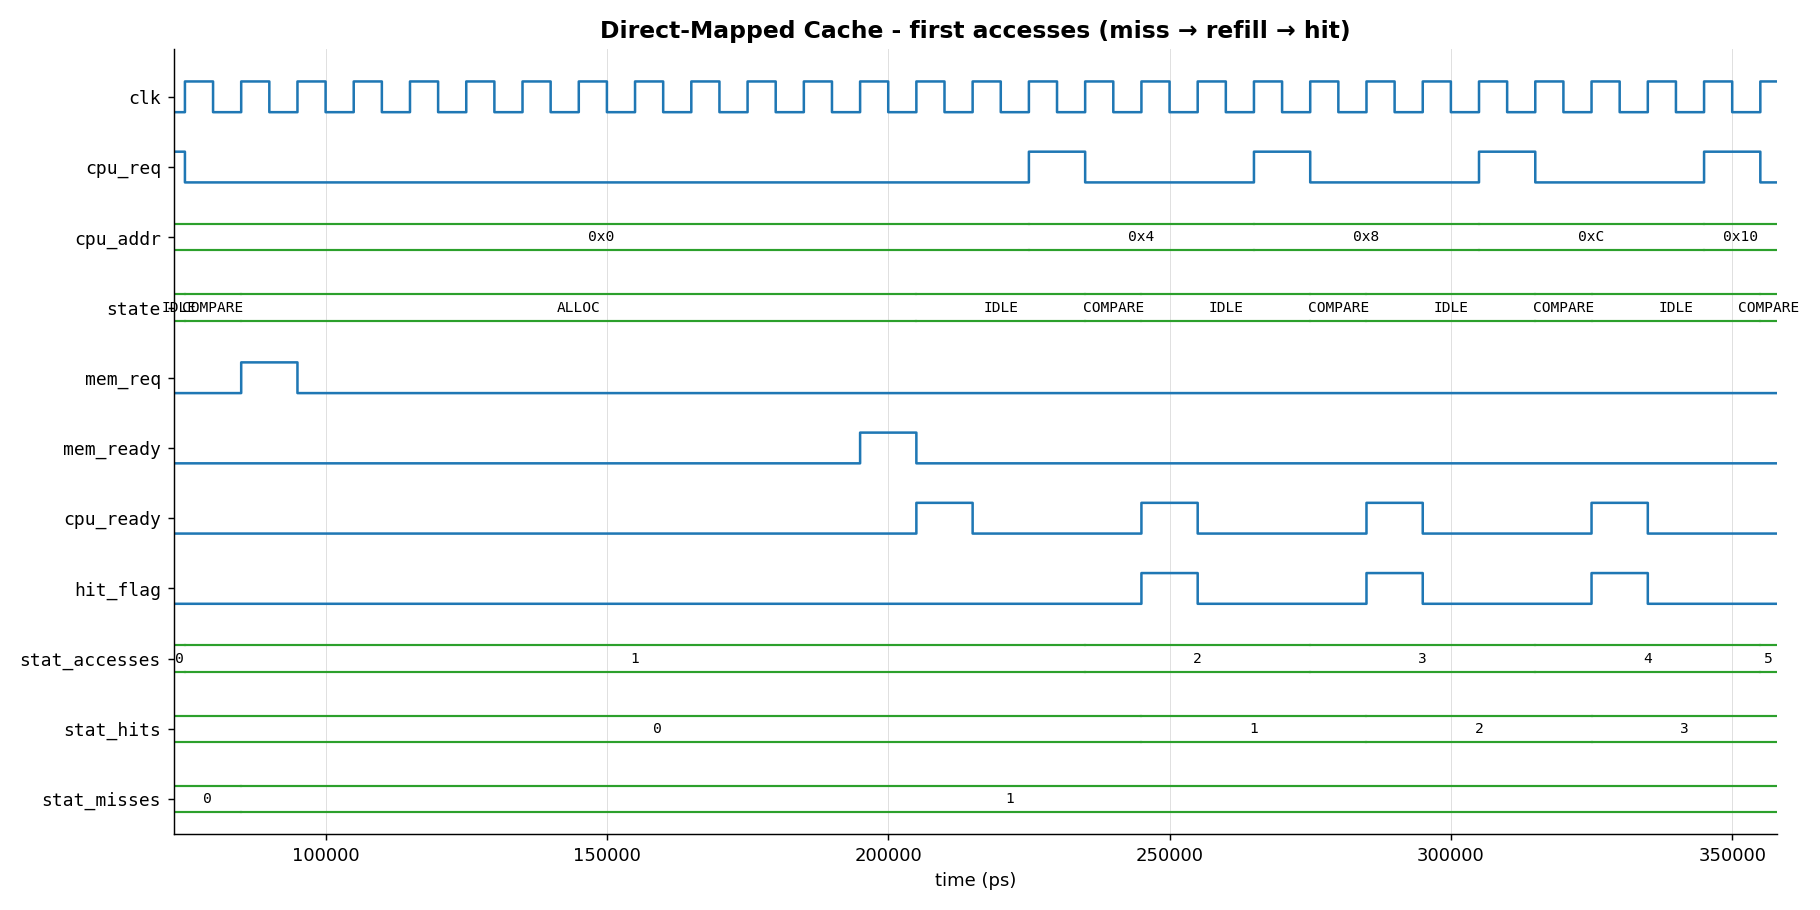
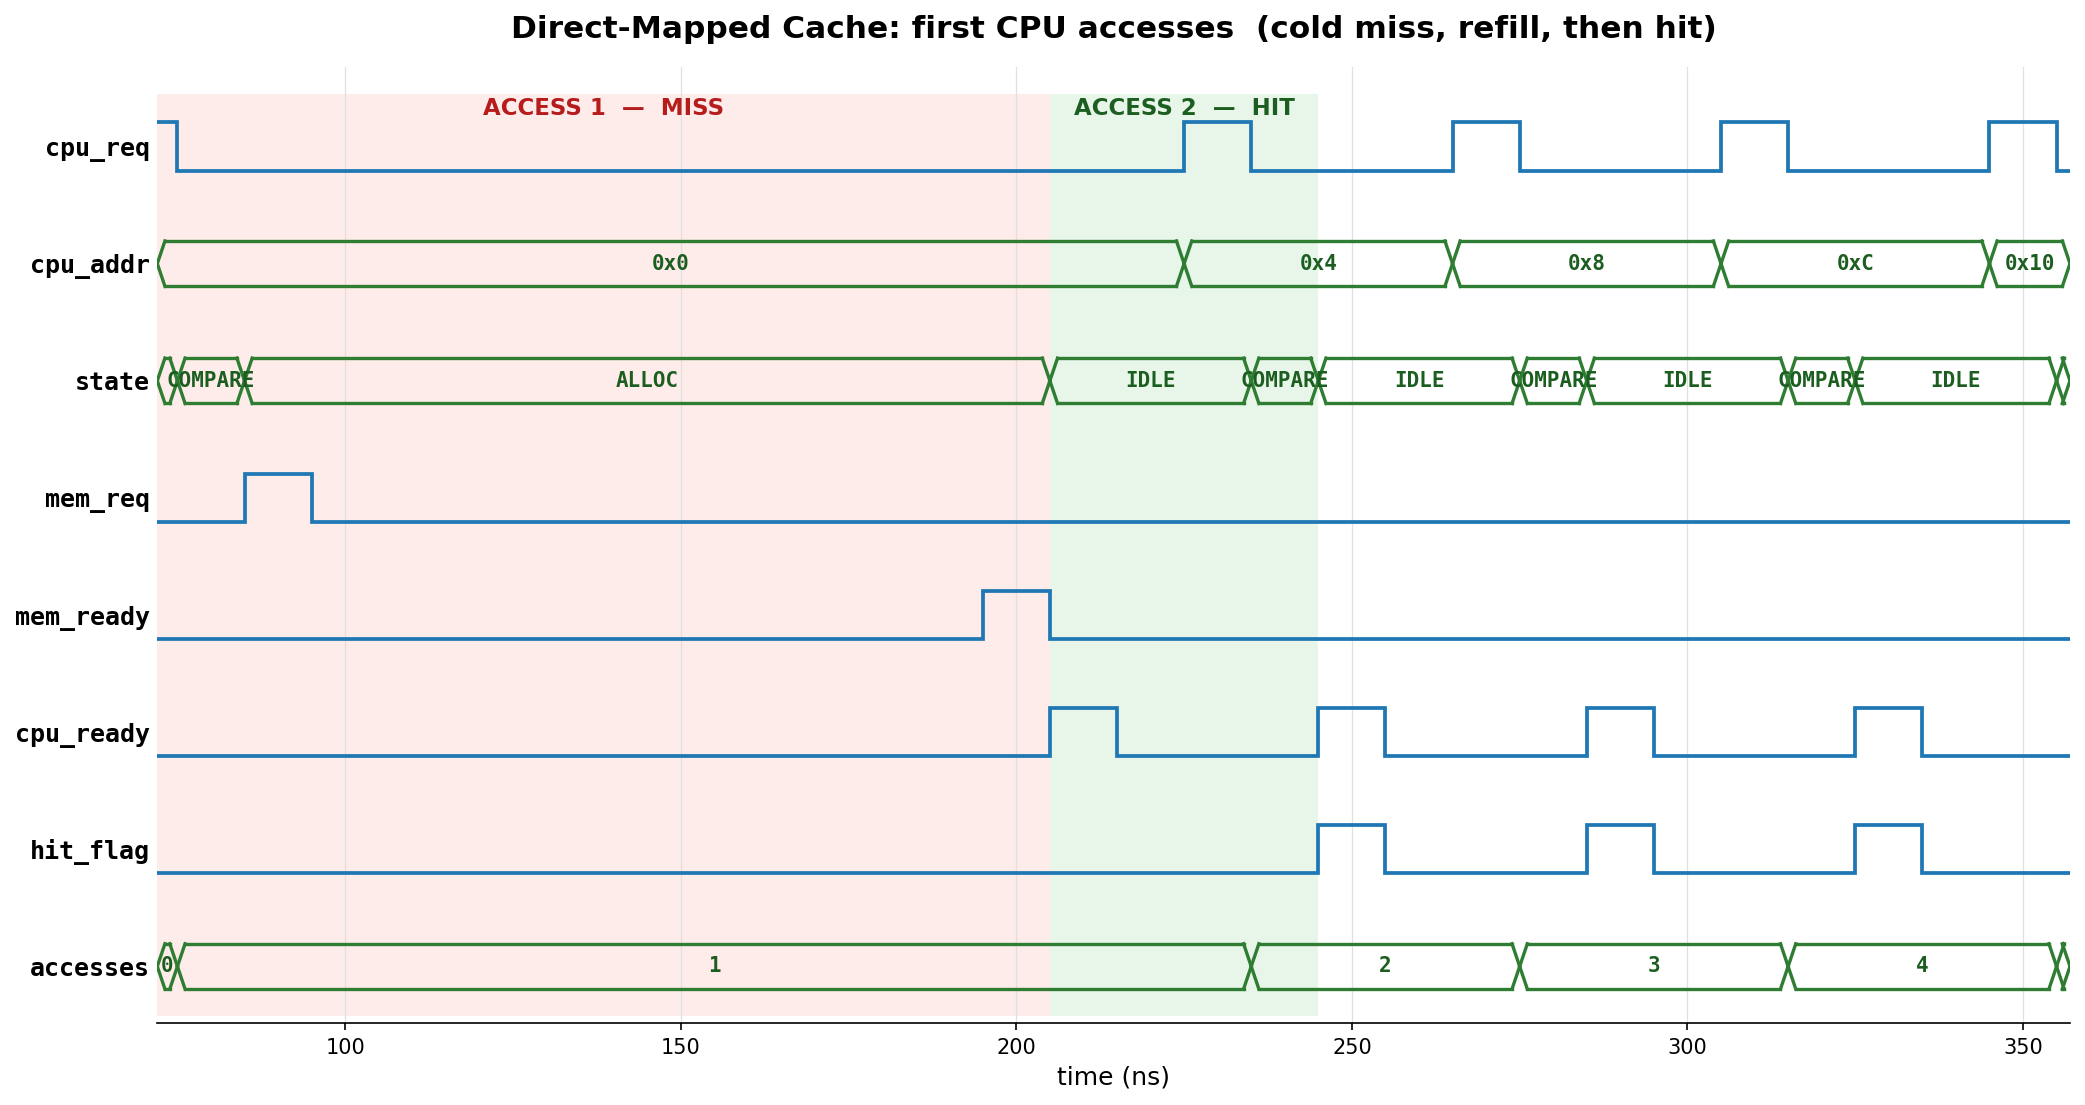
update

diff --git a/tools/plot_wave.py b/tools/plot_wave.py
@@ -1,14 +1,16 @@
 #!/usr/bin/env python3
-"""Minimal VCD -> waveform PNG renderer for the cache demo.
+"""VCD -> waveform PNG renderer for the cache demo.
 
-No external deps beyond matplotlib. Parses cache.vcd, extracts a handful of
-signals over a chosen time window (the first few CPU accesses, which show a
-miss -> refill -> hit sequence), and draws a GTKWave-style digital waveform.
+Parses cache.vcd, extracts the signals that tell the miss -> refill -> hit
+story over the first few CPU accesses, and draws a clean, readable digital
+waveform. No deps beyond matplotlib.
 """
+import os
 import sys
 import matplotlib
 matplotlib.use("Agg")
 import matplotlib.pyplot as plt
+from matplotlib.patches import Rectangle
 
 VCD = sys.argv[1] if len(sys.argv) > 1 else "cache.vcd"
 OUT = sys.argv[2] if len(sys.argv) > 2 else "docs/waveform.png"
@@ -27,10 +29,35 @@ SIGS = {
     '"': ("stat_hits", 32),
     "!": ("stat_misses", 32),
 }
-# display order (top to bottom)
-ORDER = ["clk", "cpu_req", "cpu_addr", "state", "mem_req", "mem_ready",
-         "cpu_ready", "hit_flag", "stat_accesses", "stat_hits", "stat_misses"]
+
+# Signals we actually draw, top to bottom. clk dropped (too dense, no story).
+# stat_hits/stat_misses dropped (stat_accesses alone marks the access count).
+ORDER = [
+    "cpu_req", "cpu_addr", "state",
+    "mem_req", "mem_ready",
+    "cpu_ready", "hit_flag",
+    "stat_accesses",
+]
+
+# Friendly row labels.
+LABEL = {
+    "cpu_req": "cpu_req",
+    "cpu_addr": "cpu_addr",
+    "state": "state",
+    "mem_req": "mem_req",
+    "mem_ready": "mem_ready",
+    "cpu_ready": "cpu_ready",
+    "hit_flag": "hit_flag",
+    "stat_accesses": "accesses",
+}
+
 STATE_NAME = {0: "IDLE", 1: "COMPARE", 2: "ALLOC", 3: "DONE"}
+
+PS_PER_NS = 1000.0
+BLUE = "#1f77b4"
+GREEN = "#2e7d32"
+MISS_SHADE = "#fdecea"   # light red
+HIT_SHADE = "#e8f5e9"    # light green
 
 
 def parse(path):
@@ -75,99 +102,158 @@ def value_at(events, t):
     return v
 
 
+def segments(events, t0, t1):
+    """Return list of (start, end, value) spans within [t0, t1]."""
+    spans = []
+    cur = value_at(events, t0)
+    seg_start = t0
+    for (et, ev) in events:
+        if et <= t0:
+            continue
+        if et >= t1:
+            break
+        if ev != cur:
+            spans.append((seg_start, et, cur))
+            cur = ev
+            seg_start = et
+    spans.append((seg_start, t1, cur))
+    return spans
+
+
+def fmt_val(name, val):
+    if name == "state":
+        return STATE_NAME.get(val, str(val))
+    if name == "cpu_addr":
+        return f"0x{val:X}"
+    return str(val)
+
+
+def draw_scalar(ax, events, t0, t1, y, h):
+    lo = y + 0.18 * h
+    hi = y + 0.82 * h
+    xs, ys = [], []
+    prev = None
+    for (s, e, v) in segments(events, t0, t1):
+        lvl = hi if v else lo
+        if prev is not None and prev != lvl:
+            xs.append(s); ys.append(prev)   # vertical edge
+        xs.append(s); ys.append(lvl)
+        xs.append(e); ys.append(lvl)
+        prev = lvl
+    ax.plot(xs, ys, color=BLUE, linewidth=1.8, solid_joinstyle="miter")
+
+
+def draw_bus(ax, events, name, t0, t1, y, h, span_ns):
+    lo = y + 0.2 * h
+    hi = y + 0.8 * h
+    mid = y + 0.5 * h
+    bevel = min(span_ns, (t1 - t0) * 0.004)
+    for (s, e, v) in segments(events, t0, t1):
+        if e - s < 1:
+            continue
+        # hexagon-ish box
+        ax.plot([s + bevel, e - bevel], [hi, hi], color=GREEN, linewidth=1.6)
+        ax.plot([s + bevel, e - bevel], [lo, lo], color=GREEN, linewidth=1.6)
+        ax.plot([s, s + bevel], [mid, hi], color=GREEN, linewidth=1.6)
+        ax.plot([s, s + bevel], [mid, lo], color=GREEN, linewidth=1.6)
+        ax.plot([e - bevel, e], [hi, mid], color=GREEN, linewidth=1.6)
+        ax.plot([e - bevel, e], [lo, mid], color=GREEN, linewidth=1.6)
+        txt = fmt_val(name, v)
+        # Skip labels on segments too narrow to hold the text without
+        # spilling into neighbours. ~1.05 ns per char at this font size.
+        if (e - s) < len(txt) * 1.05 + 1.0:
+            continue
+        t = ax.text((s + e) / 2, mid, txt, ha="center", va="center",
+                    fontsize=10, family="monospace", weight="bold",
+                    color="#1b5e20")
+        t.set_clip_on(True)
+
+
 def main():
     data = parse(VCD)
 
-    # Window: find the time of the 3rd access completing, so we capture
-    # miss -> refill -> hit. Use stat_accesses reaching ~5.
+    # Window: first access through the 5th, converted to ns.
     acc = data["stat_accesses"]
-    t_start = 0
-    t_end = None
+    t_start_ps = 0
+    t_end_ps = None
     for (t, v) in acc:
-        if v == 1 and t_start == 0:
-            t_start = max(0, t - 2000)
+        if v == 1 and t_start_ps == 0:
+            t_start_ps = max(0, t - 3000)
         if v == 5:
-            t_end = t + 3000
+            t_end_ps = t + 2000
             break
-    if t_end is None:
-        t_end = t_start + 60000
+    if t_end_ps is None:
+        t_end_ps = t_start_ps + 60000
 
-    fig, ax = plt.subplots(figsize=(14, 7))
+    t0 = t_start_ps / PS_PER_NS
+    t1 = t_end_ps / PS_PER_NS
+    span_ns = (t1 - t0)
+
+    # Convert all event times to ns.
+    data = {k: [(et / PS_PER_NS, v) for (et, v) in ev] for k, ev in data.items()}
+
+    fig, ax = plt.subplots(figsize=(14, 7.5))
     fig.patch.set_facecolor("white")
+    ax.set_facecolor("white")
 
     row_h = 1.0
-    gap = 0.6
+    gap = 0.55
     y = 0
     yticks, ylabels = [], []
 
-    # build a dense time grid for stepping
-    grid = list(range(t_start, t_end, 50))
-
-    for name in reversed(ORDER):
+    rows = list(reversed(ORDER))
+    for name in rows:
         ev = data[name]
         width = next(w for _, (n, w) in SIGS.items() if n == name)
-        yc = y + row_h / 2
-        yticks.append(yc)
-        ylabels.append(name)
-
+        yticks.append(y + row_h / 2)
+        ylabels.append(LABEL[name])
         if width == 1:
-            xs, ys = [], []
-            for gt in grid:
-                v = value_at(ev, gt)
-                xs.append(gt)
-                ys.append(y + (0.15 + 0.7 * v) * row_h)
-            ax.step(xs, ys, where="post", color="#1f77b4", linewidth=1.4)
+            draw_scalar(ax, ev, t0, t1, y, row_h)
         else:
-            # multi-bit: draw a bus with value labels at each change
-            # find transitions within window
-            last = None
-            seg_start = t_start
-            for gt in grid + [t_end]:
-                v = value_at(ev, gt)
-                if last is None:
-                    last = v
-                    seg_start = gt
-                elif v != last:
-                    _bus_segment(ax, seg_start, gt, y, row_h, name, last)
-                    last = v
-                    seg_start = gt
-            _bus_segment(ax, seg_start, t_end, y, row_h, name, last)
-
+            draw_bus(ax, ev, name, t0, t1, y, row_h, span_ns)
         y += row_h + gap
 
-    ax.set_xlim(t_start, t_end)
-    ax.set_ylim(-0.3, y)
-    ax.set_yticks(yticks)
-    ax.set_yticklabels(ylabels, fontsize=10, family="monospace")
-    ax.set_xlabel("time (ps)", fontsize=10)
-    ax.set_title("Direct-Mapped Cache - first accesses "
-                 "(miss → refill → hit)", fontsize=13, weight="bold")
-    ax.grid(axis="x", color="#dddddd", linewidth=0.5)
-    for spine in ("top", "right"):
-        ax.spines[spine].set_visible(False)
+    top = y - gap + 0.2
 
-    import os
+    # Shade the first access (MISS) and the next (first HIT) using cpu_ready.
+    ready_spans = [s for s in segments(data["cpu_ready"], t0, t1) if s[2] == 1]
+    hit_ev = data["hit_flag"]
+    first_done = ready_spans[0][0] if ready_spans else None
+
+    # Access boundaries: each access spans from one cpu_req rise region.
+    # Shade region 1 (miss) up to first cpu_ready, region 2 (hit) after.
+    if first_done is not None:
+        ax.add_patch(Rectangle((t0, -0.15), first_done - t0, top + 0.15,
+                     facecolor=MISS_SHADE, edgecolor="none", zorder=0))
+        ax.text(t0 + (first_done - t0) / 2, top - 0.05, "ACCESS 1  —  MISS",
+                ha="center", va="top", fontsize=11, weight="bold",
+                color="#b71c1c")
+        # hit region: from first_done to the 2nd cpu_ready (or end)
+        hit_end = ready_spans[1][0] if len(ready_spans) > 1 else t1
+        ax.add_patch(Rectangle((first_done, -0.15), hit_end - first_done,
+                     top + 0.15, facecolor=HIT_SHADE, edgecolor="none",
+                     zorder=0))
+        ax.text(first_done + (hit_end - first_done) / 2, top - 0.05,
+                "ACCESS 2  —  HIT", ha="center", va="top", fontsize=11,
+                weight="bold", color="#1b5e20")
+
+    ax.set_xlim(t0, t1)
+    ax.set_ylim(-0.25, top + 0.35)
+    ax.set_yticks(yticks)
+    ax.set_yticklabels(ylabels, fontsize=12, family="monospace", weight="bold")
+    ax.set_xlabel("time (ns)", fontsize=12)
+    ax.tick_params(axis="x", labelsize=10)
+    ax.set_title("Direct-Mapped Cache: first CPU accesses  (cold miss, refill, then hit)",
+                 fontsize=15, weight="bold", pad=14)
+    ax.grid(axis="x", color="#e0e0e0", linewidth=0.6, zorder=0)
+    for spine in ("top", "right", "left"):
+        ax.spines[spine].set_visible(False)
+    ax.tick_params(axis="y", length=0)
+
     os.makedirs(os.path.dirname(OUT), exist_ok=True)
     fig.tight_layout()
-    fig.savefig(OUT, dpi=130)
-    print(f"wrote {OUT}  window=[{t_start},{t_end}] ps")
-
-
-def _bus_segment(ax, x0, x1, y, row_h, name, val):
-    if x1 - x0 < 1:
-        return
-    lo = y + 0.2 * row_h
-    hi = y + 0.8 * row_h
-    ax.plot([x0, x1], [lo, lo], color="#2ca02c", linewidth=1.2)
-    ax.plot([x0, x1], [hi, hi], color="#2ca02c", linewidth=1.2)
-    if name == "state":
-        txt = STATE_NAME.get(val, str(val))
-    elif name in ("cpu_addr",):
-        txt = f"0x{val:X}"
-    else:
-        txt = str(val)
-    ax.text((x0 + x1) / 2, y + 0.5 * row_h, txt, ha="center", va="center",
-            fontsize=8, family="monospace")
+    fig.savefig(OUT, dpi=150, bbox_inches="tight")
+    print(f"wrote {OUT}  window=[{t0:.0f},{t1:.0f}] ns")
 
 
 if __name__ == "__main__":
